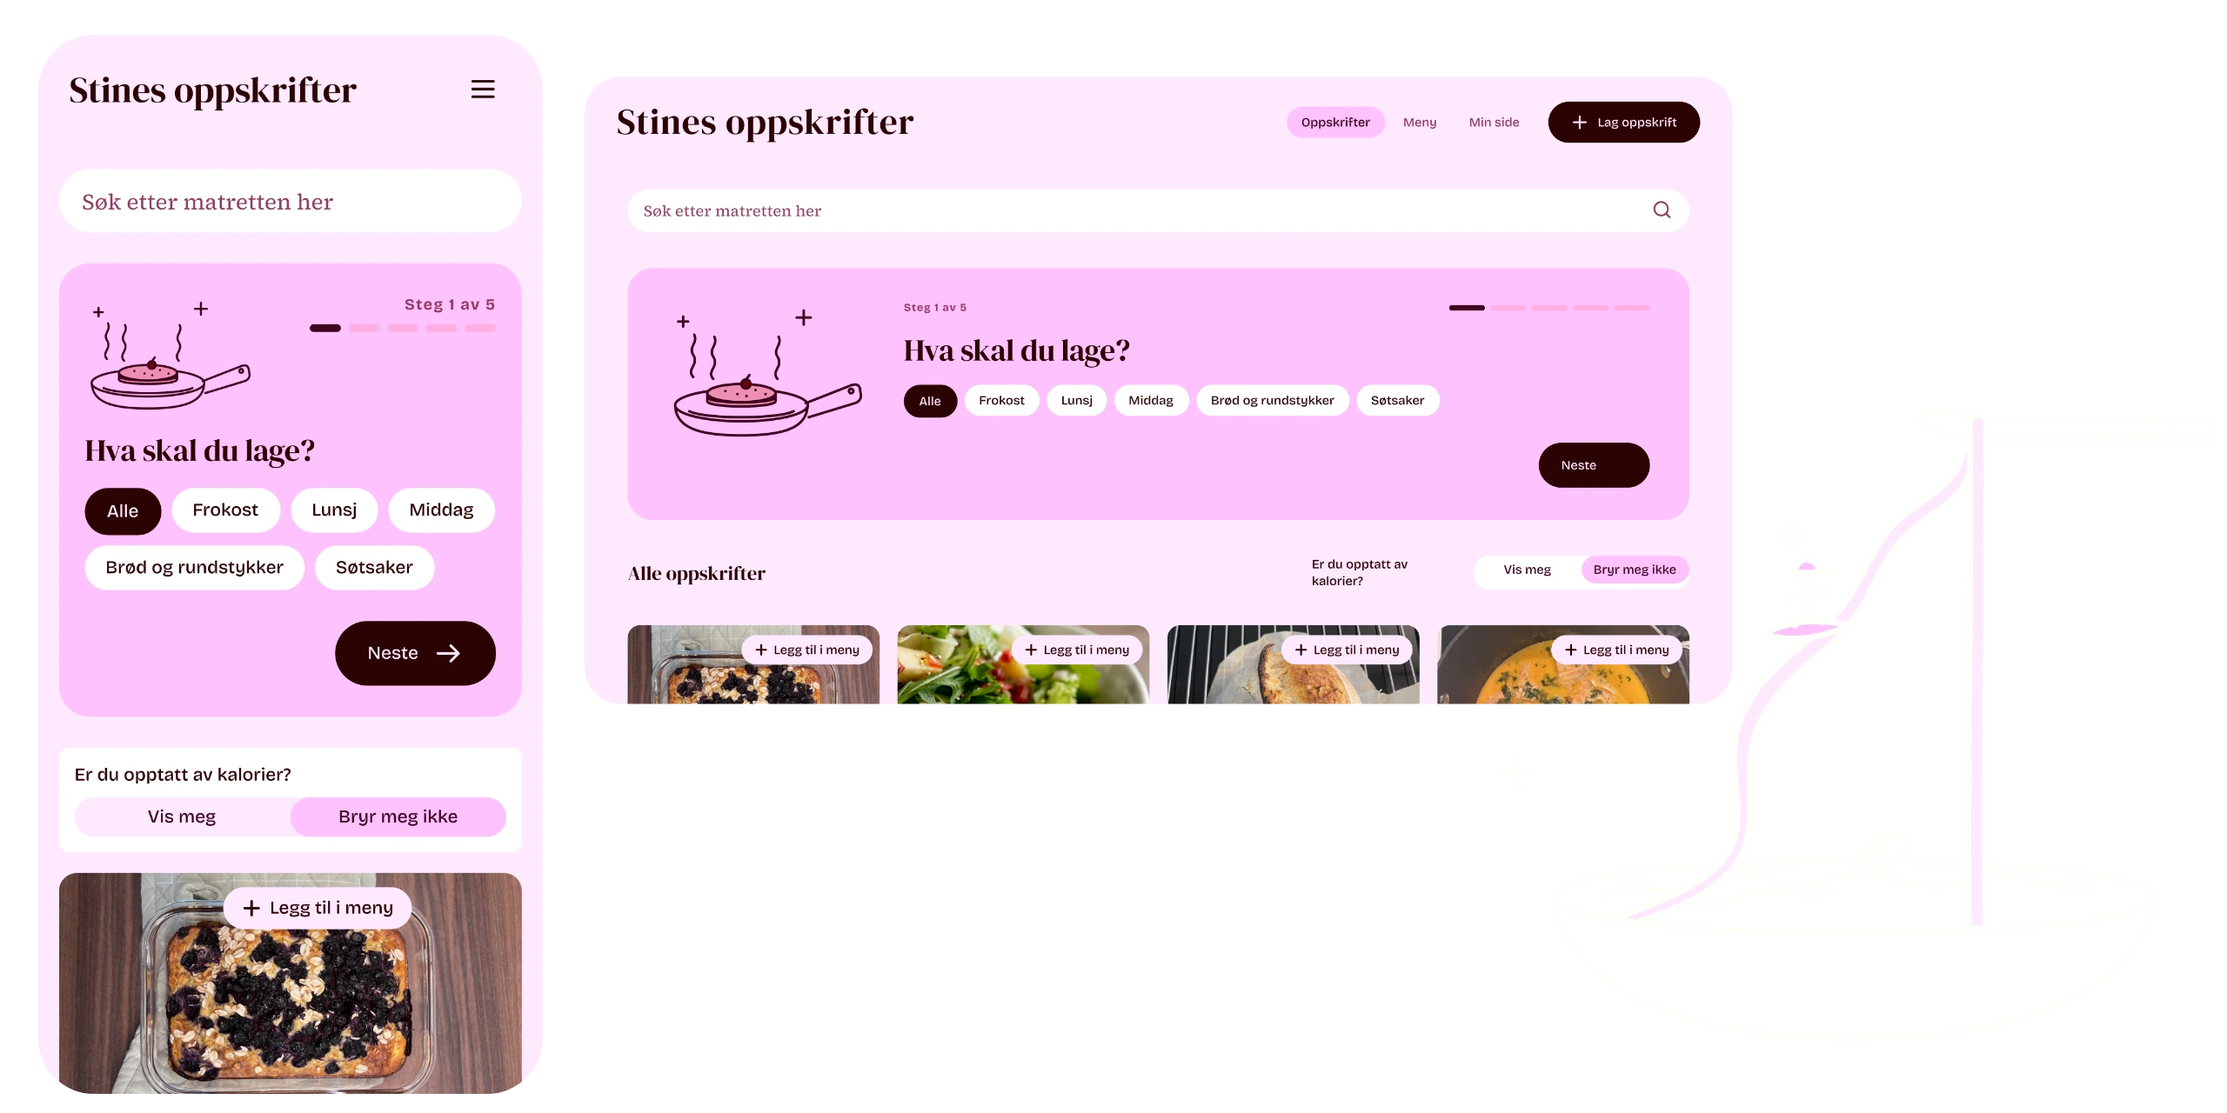
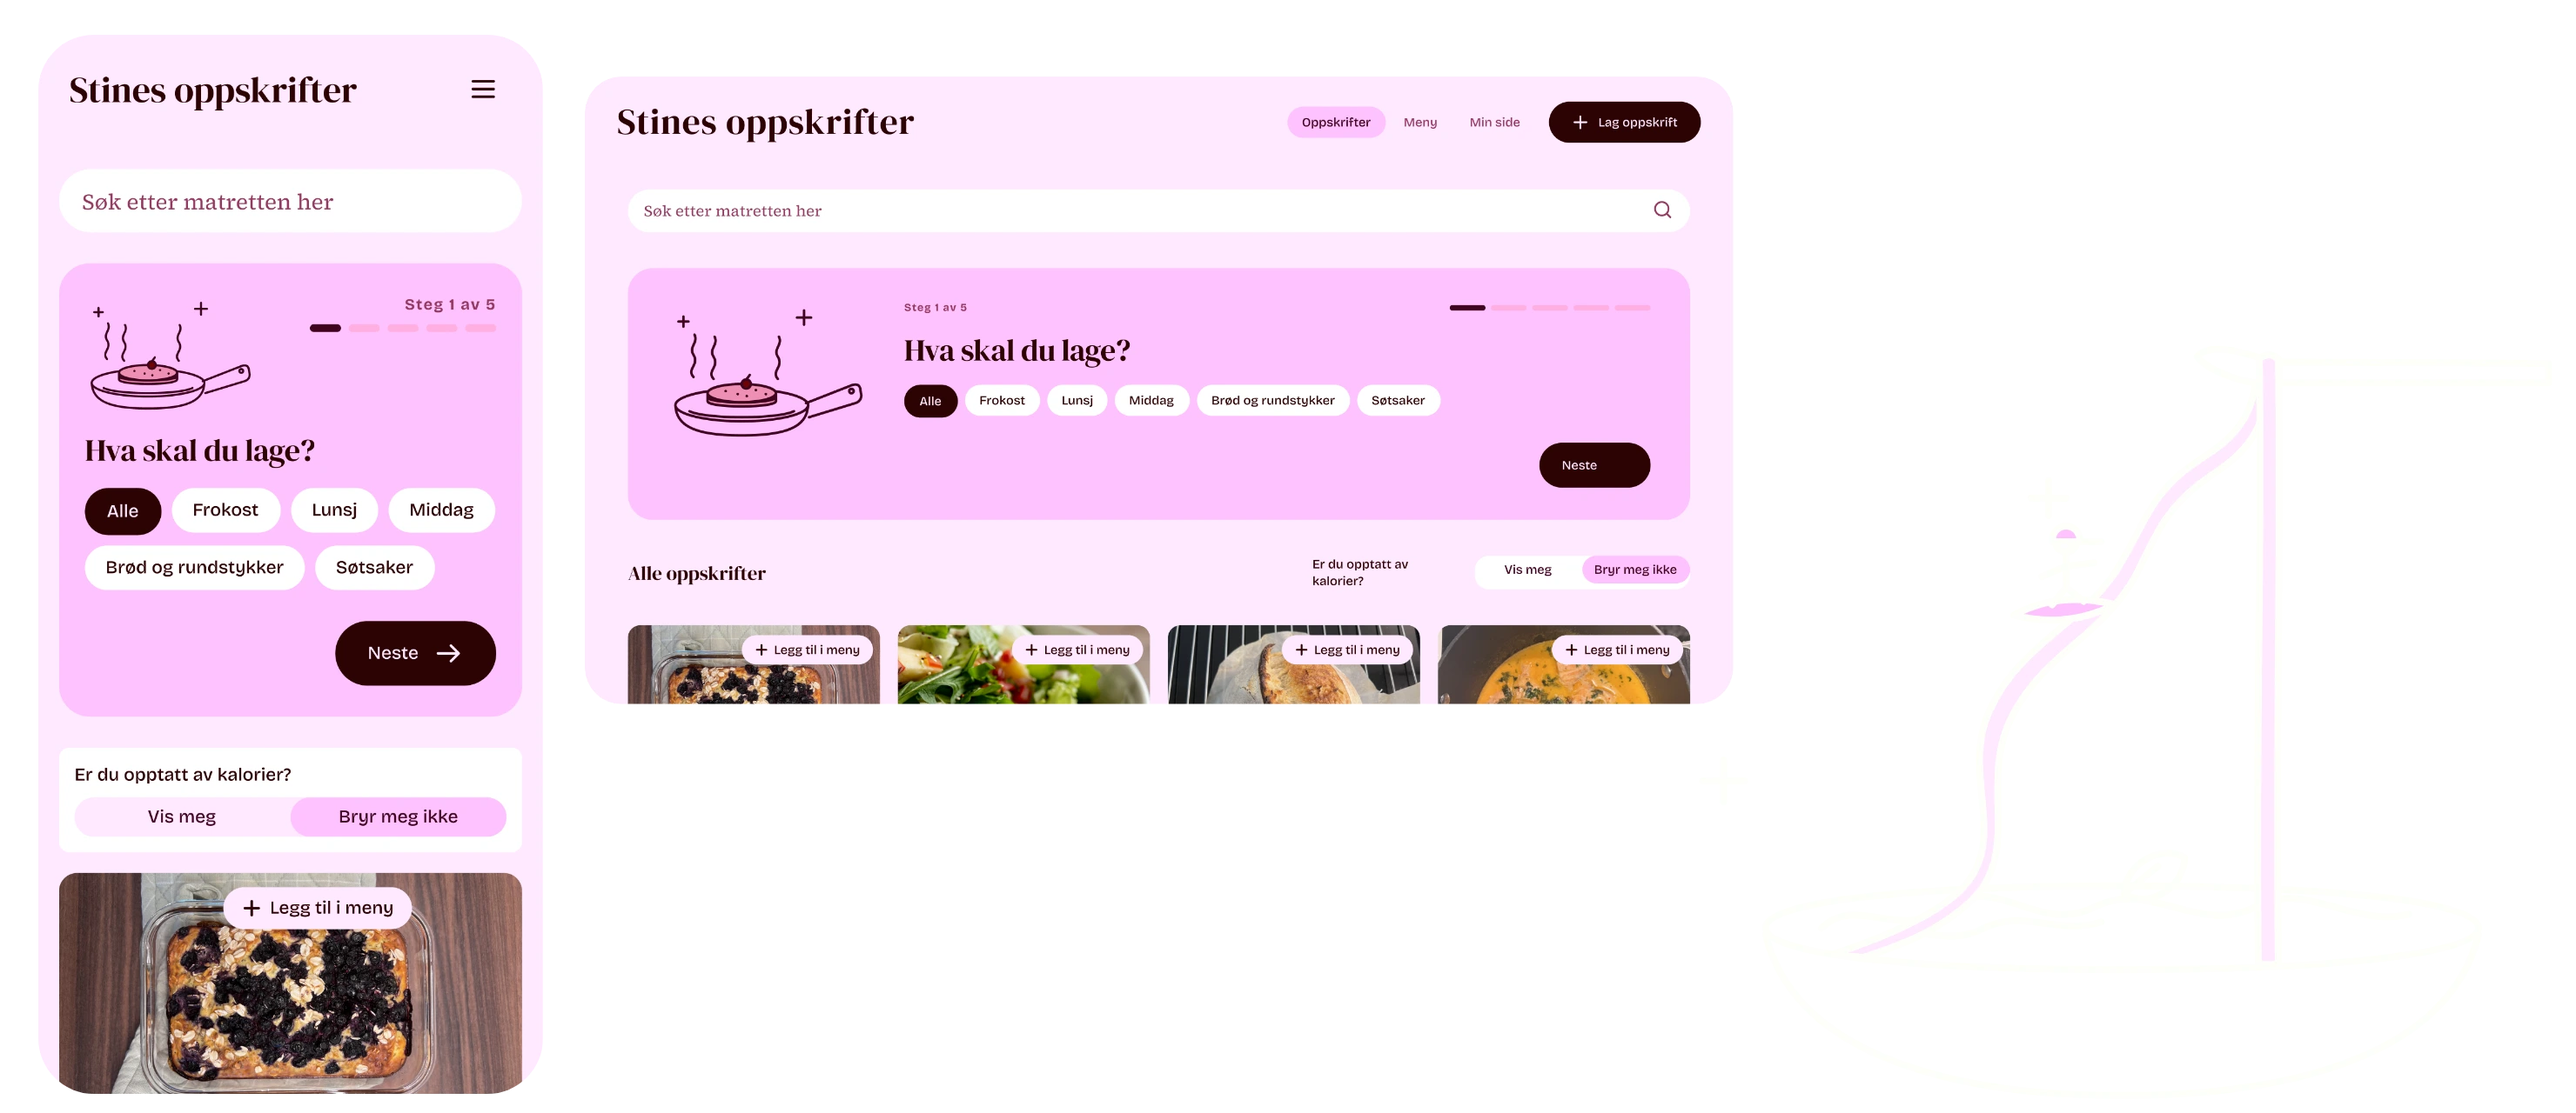
Stines oppskrifter: card-only crop of the recipe screenshot, thumbnail in lime and plum with a bigger illustration further right

diff --git a/app/data/thumbnails.ts b/app/data/thumbnails.ts
@@ -74,7 +74,7 @@ export const thumbnails = {
   },
   oppskrifter: {
     foregroundSrc: "/stines-oppskrifter/thumbnail-fg.webp",
-    foregroundSize: { width: 1280, height: 640 },
+    foregroundSize: { width: 1480, height: 640 },
     backgroundSrc: "/stines-oppskrifter/thumbnail-bg.webp",
     backgroundPosition: "center bottom",
     backgroundColor: "#ffffff",
